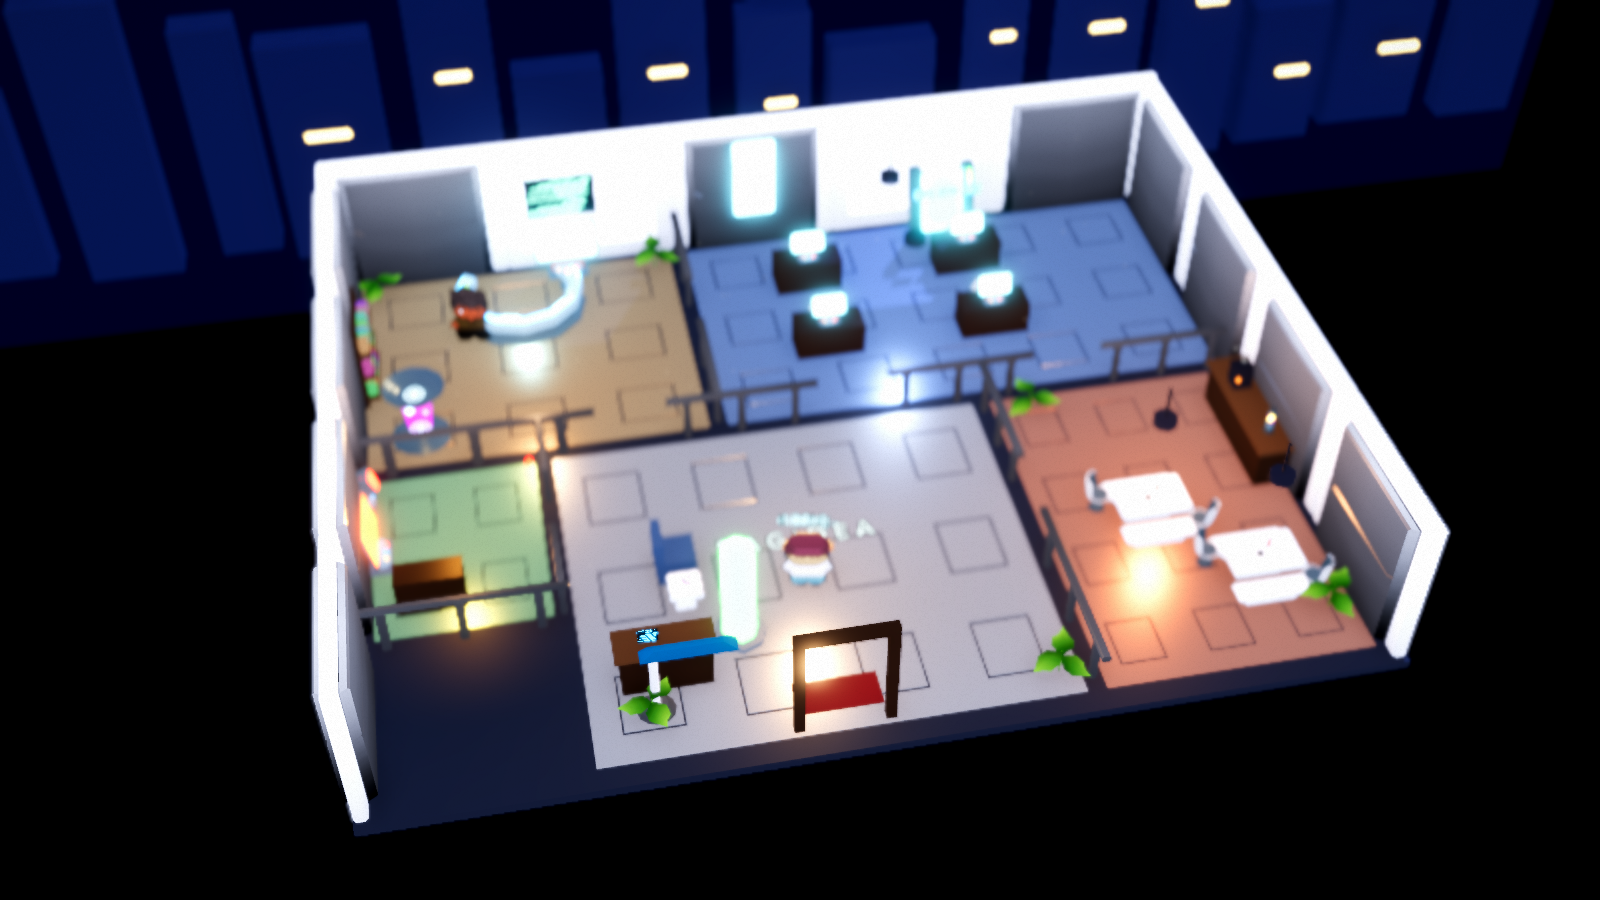
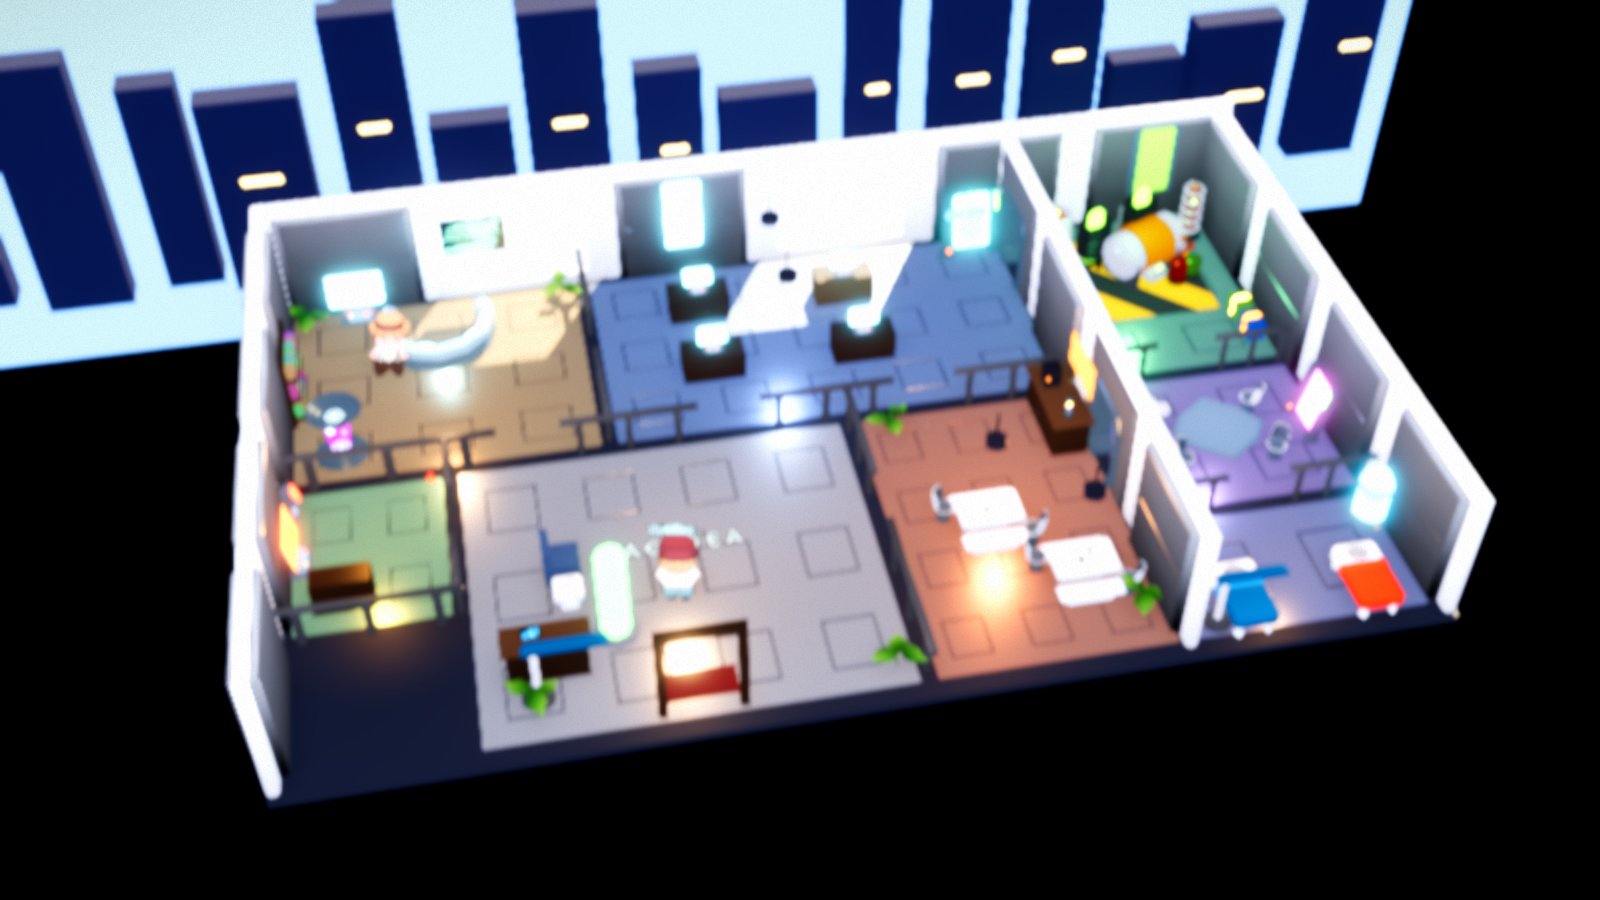
East wing: Meeting Room, Server Room, Dormitory + collab choreography
- Building extends 6m east (26.6 x 16.6): Server Room (Generator, piles,
  batteries, hazard floor, green displays), Meeting Room (Octo_Table +
  4 chairs + briefing screen), Dormitory (bunks, cryo pod, floor lamp)
- Wing divider uses real Wall_With_Door pieces; railings partition the
  wing rooms; north wall now 6 segments with two glass bays
- New events: collab.started/collab.ended (agents[] array fan-out) -
  participants physically gather at the meeting table (design doc 4.7)
- agent.offline reworked: agents walk to a dorm bunk and sleep instead
  of despawning; any new work wakes them (good morning)
- Mission board relocated to the ops east pillar; cafe counter shifted
  off the new doorway path; camera widened to cover the wing

diff --git a/daemon/send.js b/daemon/send.js
@@ -1,10 +1,12 @@
 // Test event sender: node send.js <type> [agent] [tool] [task]
 // e.g.  node send.js task.started claude "" t1
 //       node send.js task.progress claude Edit t1
-//       node send.js perm.requested rin
+//       node send.js collab.started rin,dev,mira "" t9   (comma = multi-agent)
 const [type = "task.progress", agent = "claude", tool, task] = process.argv.slice(2);
+const multi = agent.includes(",");
 const body = JSON.stringify({
-  type, agent,
+  type,
+  ...(multi ? { agents: agent.split(",") } : { agent }),
   ...(tool ? { tool } : {}),
   ...(task ? { task } : {}),
 });

diff --git a/README.md b/README.md
@@ -34,7 +34,7 @@ Not a dashboard. Not a chat window. A **world** that renders the true state of y
 ### 🖥️ Live wallpaper world (Layer 1 — Godot 4)
 - Renders **behind your desktop icons** (WorkerW technique, same as Wallpaper Engine)
 - HD-2D look: 3D office + billboarded pixel-art sprites lit by the 3D scene, volumetric god rays, bloom, tilt-shift DOF, film grain
-- **5 zones**: Executive Office, Operations Floor, Lobby, Cafeteria, Security Center
+- **8 zones**: Executive Office, Operations Floor, Lobby, Cafeteria, Security Center, **Meeting Room** (agents physically gather for collaborations), **Server Room** (generator = infra), **Dormitory** (offline agents walk to a bunk and sleep — they never just vanish)
 - Agents **walk** between zones on an A* waypoint graph with **4-direction animated spritesheets** (idle + walk); facing follows actual movement
 - **Custom Character system**: composites layered sheets (hair/head/eyes/torso/shirt/legs) with per-agent tints — the Main Agent gets a unique look; NPCs draw from 12 premade sheets by agent-id hash; falls back to runtime-generated procedural sprites when art assets are absent
 - **Real-time day/night cycle** — sun angle, color, sky and god rays follow your machine's clock; at night the city skyline outside lights up
@@ -235,7 +235,8 @@ One JSON event per WebSocket message / journal line: `{type, agent, task?, tool?
 
 | Type | Meaning | World reaction |
 |---|---|---|
-| `agent.online` / `agent.offline` | agent joins / leaves | walks in via lobby / walks out & despawns |
+| `agent.online` / `agent.offline` | agent joins / goes offline | walks in via lobby / walks to a dormitory bunk and sleeps |
+| `collab.started` / `collab.ended` (`agents[]`) | multi-agent session | participants gather around the meeting-room table, then return to work |
 | `task.started` | mission begins | takes a desk, board card → running (cyan) |
 | `task.progress` (`tool`) | tool call | tool name floats above the character |
 | `task.completed` / `task.failed` | mission ends | "done ✓"/"failed ✗", card green/red, returns to cafeteria |
@@ -263,9 +264,9 @@ The `docs/` folder is a complete V1 product-design specification written before 
 - [x] Character art — Schwarnhild spritesheets + custom-character compositor (procedural fallback kept)
 - [x] Environment furniture — Molten Maps sci-fi 3D models (consoles, monitors, briefing screen, cafeteria…)
 - [x] Full kit shell — walls (solid + glass window bays), railing partitions, zone-tinted metal floors
+- [x] Meeting Room choreography, Server Room, Dormitory (east wing)
 - [ ] Replay Theater — scrub & re-enact any past mission from the journal
-- [ ] Meeting-room choreography for multi-agent collaboration
-- [ ] More zones (Research Lab, Dev Studio, Dormitory, Archive Library…)
+- [ ] More zones (Research Lab, Dev Studio, Archive Library…)
 - [ ] Permission policies (always-allow rules, per-agent keycards)
 - [ ] Voice (push-to-talk, wake word)
 - [ ] Tauri packaging, macOS/Linux wallpaper backends